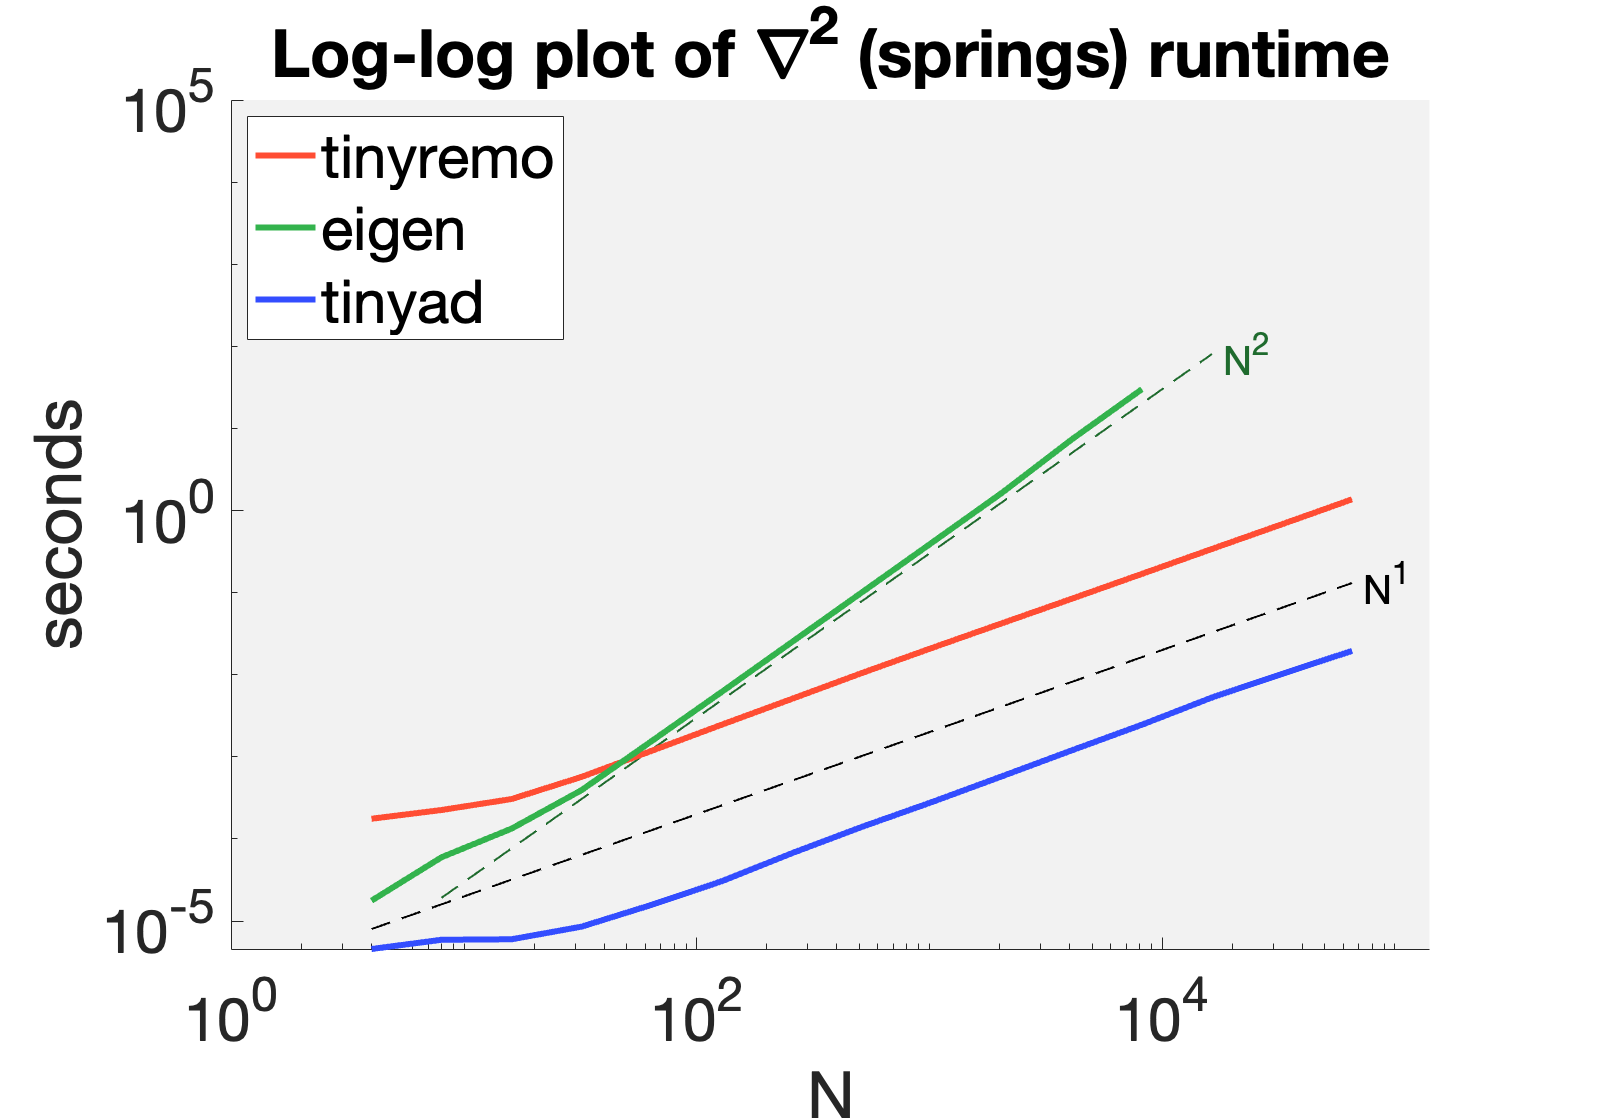
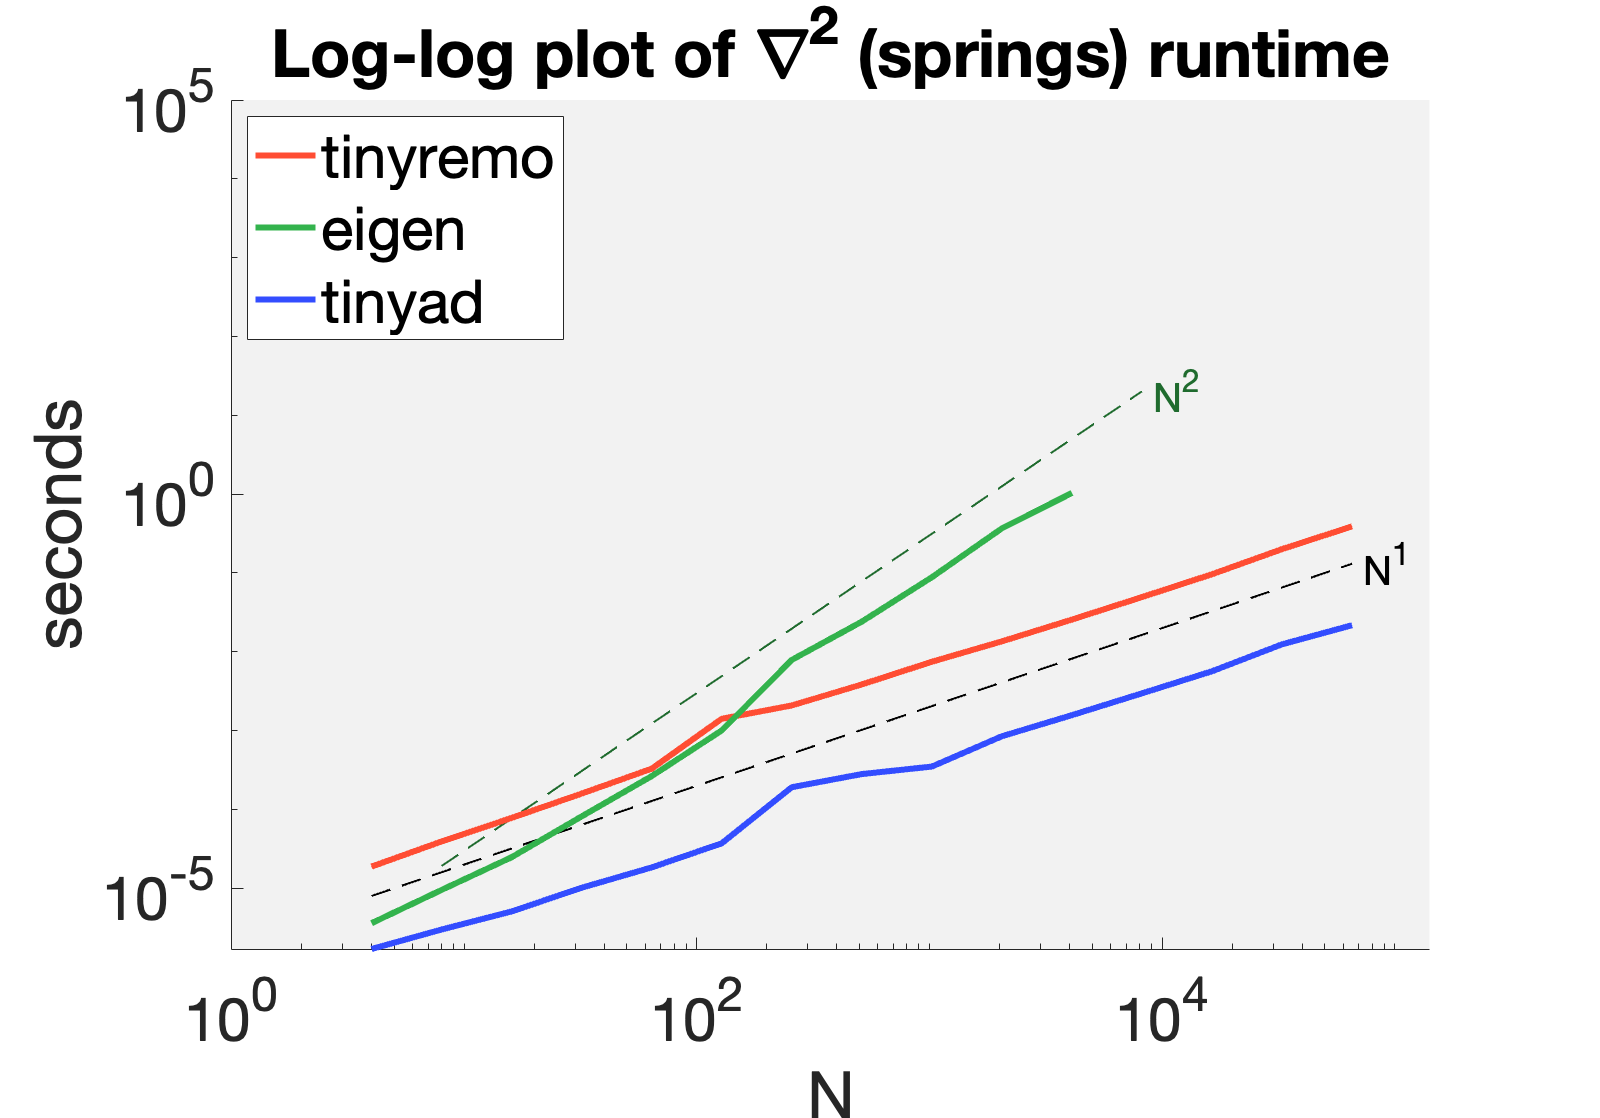
Update plots, gen_plots.m and README with improved tinyremo performance
README: note TinyAD stack limit (N=64 on laptop), update spring Hessian
speedup vs TinyAD from 70× to 17× following tinyremo optimisations.

diff --git a/gen_plots.m b/gen_plots.m
@@ -1,41 +1,47 @@
-for pass = 3
+for pass = 1:2
   switch pass
   case 1
     tit = 'Log-log plot of \nabla (llt) runtime';
     meths = {'eigen','tinyad','tinyremo'};
-    D = [2 6.64949e-06 2.69413e-07 1.8096e-06
-    4 1.92308e-05 1.76907e-06 5.24044e-06
-    8 7.81894e-05 2.8162e-05 2.04587e-05
-    16 0.000185301 0.000427279 9.161e-05
-    32 0.000949619 0.00984386 0.00058212
-    64 0.00592546 0.337963 0.00258134];
+    D = [
+      2 1.27077e-06 1.28746e-07 2.2316e-06
+      4 3.9506e-06 2.52962e-06 6.22988e-06
+      8 2.31385e-05 3.81207e-05 2.83694e-05
+      16 0.000103152 0.000603151 0.00012917
+      32 0.000834198 0.0145271 0.000771151
+      64 0.00819852 0.458206 0.00383134
+      ];
   case 2
     tit = 'Log-log plot of \nabla^2 (llt) runtime';
     meths = {'tinyad','tinyremo'};
-    D = [2 1.09673e-07 5.21898e-06
-    4 1.76907e-06 2.44403e-05
-    8 2.75302e-05 0.000179689
-    16 0.000432031 0.00114989
-    32 0.00994142 0.0121569
-    64 0.347589 0.109768];
+    D = [
+      2 1.3113e-07 3.86e-06
+      4 1.85966e-06 1.61004e-05
+      8 3.34692e-05 0.00016197
+      16 0.000461631 0.000792902
+      32 0.0120034 0.00541788
+      64 0.428727 0.0336399
+      ];
   case 3
     tit = 'Log-log plot of \nabla^2 (springs) runtime';
     meths = {'tinyad','eigen','tinyremo'};
-    D = [4 4.57048e-06 1.77193e-05 0.00017632
-     8 5.91993e-06 5.98598e-05 0.000225291
-     16 6.001e-06 0.000133729 0.000306492
-     32 8.56161e-06 0.000393698 0.000570621
-     64 1.57714e-05 0.00155614 0.00118462
-     128 3.05605e-05 0.00617806 0.00246472
-     256 6.69575e-05 0.0249318 0.00507625
-     512 0.00014017 0.100505 0.0104832
-     1024 0.000281135 0.405149 0.0211788
-     2048 0.000579278 1.64009 0.0423253
-     4096 0.00120139 7.36242 0.084345
-     8192 0.00246441 30.0752 0.169259
-     16384 0.00528395 nan 0.340507
-     32768 0.0102345 nan 0.680715
-     65536 0.019537 nan 1.3697];
+    D = [
+     4 1.69992e-06 3.60966e-06 1.88589e-05
+     8 3.00169e-06 9.53913e-06 3.932e-05
+     16 5.09024e-06 2.47908e-05 7.81584e-05
+     32 1.01686e-05 8.17204e-05 0.000159111
+     64 1.84202e-05 0.000265021 0.00032928
+     128 3.72171e-05 0.00100518 0.00141552
+     256 0.000191641 0.00789808 0.00208768
+     512 0.000281413 0.0241442 0.00385525
+     1024 0.000350316 0.0882595 0.00748217
+     2048 0.000848929 0.368213 0.0135747
+     4096 0.00157344 1.03556 0.0256414
+     8192 0.00297356 nan 0.049479
+     16384 0.00566757 nan 0.0963985
+     32768 0.0124495 nan 0.20086
+     65536 0.0217559 nan 0.390071
+     ];
   end
   clf;
   hold on;

diff --git a/README.md b/README.md
@@ -10,7 +10,8 @@ autodiff for first-derivatives) and `tinyad (forward-mode for first- and
 second-derivatives)`. [TinyAD](https://github.com/patr-schm/TinyAD) always
 computes the Hessian even if it's not used, like here (hence the poor
 performance). tinyremo consistently beats eigen on this problem; both show good
-performance trend.
+performance trend. TinyAD uses compile-time-constant variable sizes, this is
+great for small sizes but maxes out at N=64 on my laptop before stackoverflow.
 
 ![](gradient-llt.png)
 
@@ -26,7 +27,7 @@ Eigen's autodiff does not support sparse Hessians, so for problems like the
 Hessian of a loop of springs, it produces a dense Hessian with quadratic time
 and memory complexity. In contrast,
 tinyremo and TinyAD support sparse Hessians. tinyremo doesn't require coding the
-loss function in any particular way, but it's about 70× slower than TinyAD,
+loss function in any particular way, but it's about 17× slower than TinyAD,
 which requires coding the loss function in a particular scatter gather loop.
 
 ![](hessian-springs.png)